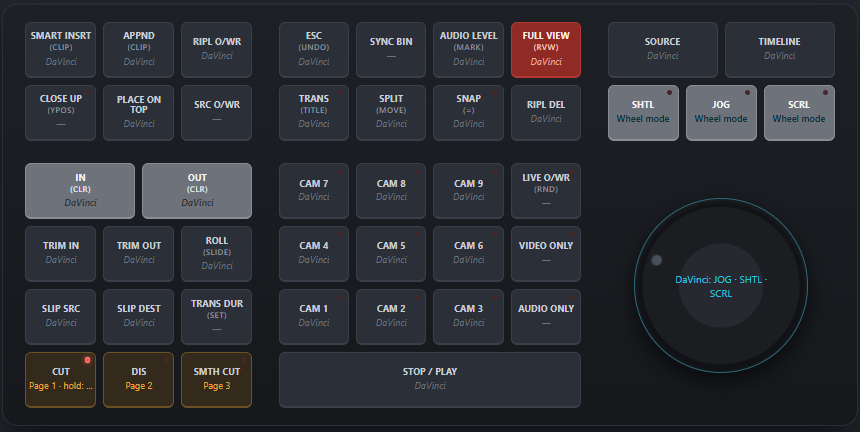
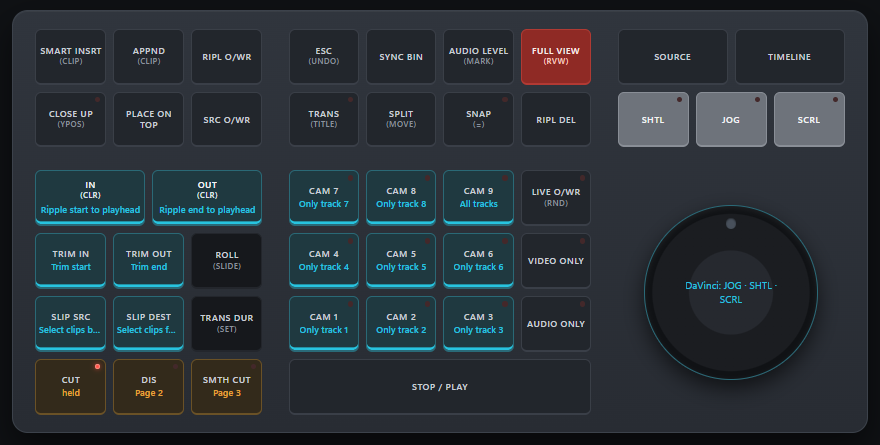
README: new screenshots and an editor section; readable action text on mapped light keys

diff --git a/apps/studio/ui/style.css b/apps/studio/ui/style.css
@@ -235,6 +235,8 @@ select {
 .key .led { position: absolute; top: 5px; right: 6px; width: 6px; height: 6px; border-radius: 50%; background: #43282a; }
 
 .key.mapped { background: #1f3940; border-color: #2a6a78; }
+/* A mapped key turns teal whatever its tone, so its action text follows. */
+.key.mapped .act { color: var(--accent); }
 .key.mapped.tone-gray, .key.mapped.tone-red, .key.mapped.tone-dark { box-shadow: inset 0 -3px 0 var(--accent); }
 .key.page-key { background: #332a1b; border-color: #6b5226; }
 .key.page-key .act { color: var(--page); }

diff --git a/README.md b/README.md
@@ -72,9 +72,27 @@ Resolve.**
 
 ![The device view](docs/images/device.png)
 
-Keys show their secondary function in brackets, as printed on the device. "DaVinci" means the
-key does its native job. "—" means Resolve has no keyboard command for it, so the key is free
-for your own mapping.
+*The DaVinci page with its CUT + key layer: what each key does while CUT is held.*
+
+## The editor
+
+- **Pick a key** by clicking it on the picture, or press it on the Speed Editor while the
+  app's window is in front. The panel on the right sets its label, press and long-press
+  action. Keys show their secondary function in brackets, as printed on the device. Plain
+  keys keep their DaVinci function; dimmed keys have no Resolve keyboard command, so they
+  are free for your own mapping. Mapped keys turn teal.
+- **Pages** are the tabs on the left (CUT, DIS, SMTH CUT). The icons on the right switch
+  between the picture and a list of all mappings, and between the plain keys and the CUT,
+  DIS and SMTH CUT layers. The picture turns purple only while you hold a function key on
+  the device.
+- **Actions** at the bottom folds open: drag an action onto a key, or select a key and click
+  the action.
+- **Top bar:** **Connect** takes over the Speed Editor, **Active** switches your mappings
+  on (when off, presses only light up in the app, for testing). Then come import, export
+  and revert, the settings (⚙) with **Give to Resolve** and **Start with Windows**, and
+  **Save**. The dot shows the connection; hover it for details.
+- **?** in the side panel shows the longer explanations.
+- The console at the bottom shows what just happened, newest line first.
 
 ## Requirements
 
@@ -121,18 +139,18 @@ built in.
 cargo build --release
 ```
 
-Then start `target\release\se-studio.exe`. Turn on **Connect** and **Mappings active**.
+Then start `target\release\se-studio.exe`. Turn on **Connect** and **Active**.
 
 **Start Speed Editor Studio before DaVinci Resolve.** Windows lets only one program hold the
 Speed Editor, and Resolve takes one the moment it appears. When the app holds the real device
 first, Resolve uses the emulated one instead.
 
-The easiest way is **Start with Windows** (top bar): the app then starts hidden in the system
+The easiest way is **Start with Windows** (settings ⚙ in the top bar): the app then starts hidden in the system
 tray when you sign in. Closing the window keeps it running in the tray; **Quit** in the tray
 menu ends it. If Resolve got the device first anyway, the app says so: quit Resolve and start
 it again.
 
-- **Give to Resolve** hands the device back to Resolve's own driver whenever Resolve runs.
+- **Give to Resolve** (also under ⚙) hands the device back to Resolve's own driver whenever Resolve runs.
   It's off by default, because then your mappings can't work inside Resolve.
 - Your profile is saved to `%APPDATA%\OpenSpeedEditor\profile.toml`.
 
